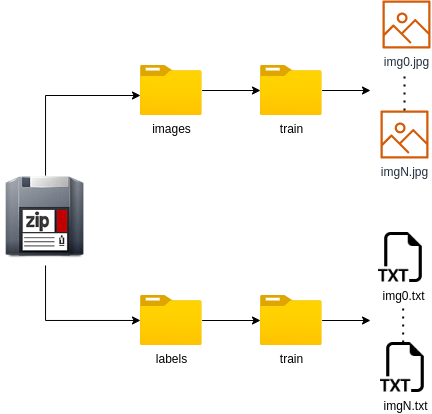
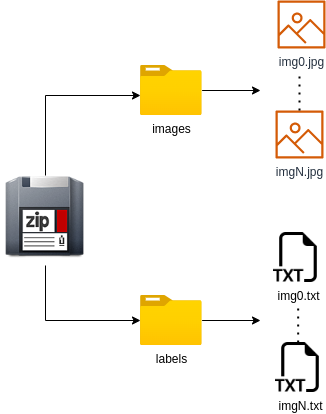
Add randomized training and validation split

diff --git a/templates/pending_models.html b/templates/pending_models.html
@@ -58,7 +58,8 @@
         </table>
         <br><br/>
         <p id="num_training_images">Current training set size: {{num_training_images}}/{{min_training_set_size}}</p>
-        <p id="training_info">This model will be trained and available on the main page only after gathering enough training data.</p>
+        <p id="num_validation_images">Current validation set size: {{num_validation_images}}/{{min_validation_set_size}}</p>
+        <p id="training_info">This model will be trained and available on the main page only after gathering enough data. NOTE: the training and validation split is randomized and done automatically.</p>
         {% endif %}
         <p class="mt-5 mb-3 text-muted">Cloud Systems thesis</p>
     </form>
@@ -73,7 +74,7 @@
       <canvas id="imgCanvas" width="400" height="400">
       </canvas>
       <br></br>
-      <button hidden id="send_labels" onclick="send_labels();">Send labels as training data</button>
+      <button hidden id="send_labels" onclick="send_labels();">Send labels as training/validation data</button>
       <br></br>
       <button hidden id="customize_labels" onclick="customize_labels();">Customize labels</button>
       <script type="text/javascript" src="/static/js/labeling.js"></script>

diff --git a/templates/index.html b/templates/index.html
@@ -54,6 +54,7 @@
         </table>
         <br><br/>
         <p id="num_training_images">Current training set size: {{num_training_images}}</p>
+        <p id="num_validation_images">Current validation set size: {{num_validation_images}}</p>
         <p class="mt-5 mb-3 text-muted">Cloud Systems thesis</p>
     </form>
     <script src="//code.jquery.com/jquery-3.3.1.slim.min.js" integrity="sha384-q8i/X+965DzO0rT7abK41JStQIAqVgRVzpbzo5smXKp4YfRvH+8abtTE1Pi6jizo" crossorigin="anonymous"></script>
@@ -68,7 +69,7 @@
       <canvas id="imgCanvas" width="400" height="400">
       </canvas>
       <br></br>
-      <button hidden id="send_labels" onclick="send_labels();">Send labels as training data</button>
+      <button hidden id="send_labels" onclick="send_labels();">Send labels as training/validation data</button>
       <br></br>
       <button hidden id="customize_labels" onclick="customize_labels();">Customize labels</button>
       <script type="text/javascript" src="/static/js/show_img.js"></script>

diff --git a/service.py b/service.py
@@ -3,6 +3,8 @@ import argparse
 import os
 from PIL import Image
 
+from random import random
+
 from flask import Flask, render_template, request, jsonify, redirect
 import json
 import pandas as pd
@@ -51,22 +53,38 @@ def get_pending_models(bucket_name, s3_folder, txt_file):
             os.utime(class_file_name, (remote_last_modified, remote_last_modified))
 
 def upload_requested_model(bucket_name, pending_model_path):
-    for root, dirs, files in os.walk(pending_model_path):
-        for file in files:
-            file_path = os.path.join(root, file)
-            print("Uploading file " + file_path + " to the S3 bucket")
-            s3_client.upload_file(file_path, bucket_name, file_path)
+    print("Uploading class list for " + pending_model_path + " to the S3 bucket")
+    s3_client.upload_file(pending_model_path + 'classes.txt', bucket_name, pending_model_path + 'classes.txt')
+    for labels_filename in os.listdir(pending_model_path + 'labels/'):
+        labels_filepath = os.path.join(pending_model_path + 'labels/', labels_filename)
+        image_filepath = labels_filepath.rsplit('.', 1)[0] + '.jpg'
+        image_filename = labels_filename.rsplit('.', 1)[0] + '.jpg'
+        # Randomize training and validation split
+        if random() <= 0.8:
+            extracted_set = '/train/'
+        else:
+            extracted_set = '/valid/'
+        print("Uploading image and labels for " + image_filename + " to the S3 bucket")
+        s3_client.upload_file(labels_filepath, bucket_name, pending_model_path + extracted_set + 'labels/' + labels_filename)
+        s3_client.upload_file(image_filepath, bucket_name, pending_model_path + extracted_set + 'images/' + image_filename)
 
 # Use paginator in case training set size > 1000 (S3 API limit)
-def count_training_set_size(bucket_name, model_path):
+def count_dataset_size(bucket_name, model_path):
     paginator = s3_client.get_paginator('list_objects_v2')
-    count = 0
+    training_count = 0
+    validation_count = 0
     #print(model_path)
     for result in paginator.paginate(Bucket=bucket_name, Prefix=model_path + '/labels/train/', Delimiter='/'):
         key_count = result.get('KeyCount')
         if key_count is not None:
-            count += key_count
-    return count
+            training_count += key_count
+
+    for result in paginator.paginate(Bucket=bucket_name, Prefix=model_path + '/labels/valid/', Delimiter='/'):
+        key_count = result.get('KeyCount')
+        if key_count is not None:
+            validation_count += key_count
+
+    return training_count, validation_count
 
 def update_db(remote_addr, img_name, json_pred):
     rds_db = mysql.connector.connect(
@@ -133,7 +151,7 @@ def predict():
     model = torch.hub.load('yolov5', 'custom', path="models/" + args.model + ".pt", source='local', autoshape=True)
     model.eval()
     model.cpu()
-    num_training_images = count_training_set_size(args.training_data_bucket, "models/" + curr_model_pt)
+    num_training_images, num_validation_images = count_dataset_size(args.training_data_bucket, "models/" + curr_model_pt)
 
     if request.method == "POST":
         curr_model_pt = request.form['model_selection'].rsplit('.', 1)[0]
@@ -151,7 +169,7 @@ def predict():
         model.eval()
         model.cpu()
 
-        num_training_images = count_training_set_size(args.training_data_bucket, "models/" + curr_model_pt)
+        num_training_images, num_validation_images = count_dataset_size(args.training_data_bucket, "models/" + curr_model_pt)
 
         img_bytes = file.read()
         img = Image.open(io.BytesIO(img_bytes))
@@ -183,9 +201,9 @@ def predict():
             if 'DB_HOSTNAME' in os.environ and 'DB_USERNAME' in os.environ and 'DB_PASSWORD' in os.environ:
                 update_db(request.remote_addr, image_name, json_pred)
         #return redirect(predicted_image_name)
-        return render_template("index.html", pred_image_loc=predicted_image_loc, orig_image_loc=original_image_loc, class_names=model.names, num_classes=len(model.names), models=models_list, num_models=len(models_list), curr_model_pt=curr_model_pt, num_training_images=num_training_images)
+        return render_template("index.html", pred_image_loc=predicted_image_loc, orig_image_loc=original_image_loc, class_names=model.names, num_classes=len(model.names), models=models_list, num_models=len(models_list), curr_model_pt=curr_model_pt, num_training_images=num_training_images, num_validation_images=num_validation_images)
 
-    return render_template("index.html", class_names=model.names, num_classes=len(model.names), models=models_list, num_models=len(models_list), curr_model_pt=curr_model_pt, num_training_images=num_training_images)
+    return render_template("index.html", class_names=model.names, num_classes=len(model.names), models=models_list, num_models=len(models_list), curr_model_pt=curr_model_pt, num_training_images=num_training_images, num_validation_images=num_validation_images)
 
 # Request model form
 @app.route("/request_model", methods=["GET", "POST"])
@@ -194,13 +212,9 @@ def request_model():
     if request.method == "POST":
         model_name = request.form['model_name']
         class_list = request.form['class_list']
-        pending_model_path = 'pending_models/' + model_name
-        if not os.path.exists(pending_model_path + '/labels/train'):
-            os.makedirs(pending_model_path + '/labels/train')
-        if not os.path.exists(pending_model_path + '/images/train'):
-            os.makedirs(pending_model_path + '/images/train')
+        pending_model_path = 'pending_models/' + model_name + '/'
         # Write class list
-        with open(pending_model_path + '/classes.txt', 'w') as class_list_file:
+        with open(pending_model_path + 'classes.txt', 'w') as class_list_file:
             class_list_file.write(class_list)
         if "file" in request.files and request.files["file"]:
             file = request.files["file"]
@@ -223,8 +237,9 @@ def pending_models():
     curr_pending_model = pending_models_list[0].rsplit('.', 1)[0]
     with open('pending_models/' + curr_pending_model + '/classes.txt', 'r') as class_list_file:
             class_list = list(filter(None, class_list_file.read().split('\n')))
-    num_training_images = count_training_set_size(args.training_data_bucket, "pending_models/" + curr_pending_model)
-    min_training_set_size = 100
+    num_training_images, num_validation_images = count_dataset_size(args.training_data_bucket, "pending_models/" + curr_pending_model)
+    min_training_set_size = 80
+    min_validation_set_size = 20
 
     if request.method == "POST":
         curr_pending_model = request.form['model_selection'].rsplit('.', 1)[0]
@@ -234,10 +249,10 @@ def pending_models():
         image_name = file.filename
         if not file:
             return
-        pending_model_path = 'pending_models/' + curr_pending_model
-        with open(pending_model_path + '/classes.txt', 'r') as class_list_file:
+        pending_model_path = 'pending_models/' + curr_pending_model + '/'
+        with open(pending_model_path + 'classes.txt', 'r') as class_list_file:
             class_list = list(filter(None, class_list_file.read().split('\n')))
-        num_training_images = count_training_set_size(args.training_data_bucket, "pending_models/" + curr_pending_model)
+        num_training_images, num_validation_images = count_dataset_size(args.training_data_bucket, "pending_models/" + curr_pending_model)
 
         img_bytes = file.read()
         img = Image.open(io.BytesIO(img_bytes))
@@ -249,9 +264,9 @@ def pending_models():
         original_image_loc = static_model_path + image_name
         img.save(original_image_loc)
 
-        return render_template("pending_models.html", orig_image_loc=original_image_loc, class_names=class_list, num_classes=len(class_list), pending_models=pending_models_list, num_pending_models=len(pending_models_list), curr_pending_model=curr_pending_model, num_training_images=num_training_images, min_training_set_size=min_training_set_size)
+        return render_template("pending_models.html", orig_image_loc=original_image_loc, class_names=class_list, num_classes=len(class_list), pending_models=pending_models_list, num_pending_models=len(pending_models_list), curr_pending_model=curr_pending_model, num_training_images=num_training_images, num_validation_images=num_validation_images, min_training_set_size=min_training_set_size, min_validation_set_size=min_validation_set_size)
 
-    return render_template("pending_models.html", class_names=class_list, num_classes=len(class_list), pending_models=pending_models_list, num_pending_models=len(pending_models_list), curr_pending_model=curr_pending_model, num_training_images=num_training_images, min_training_set_size=min_training_set_size)
+    return render_template("pending_models.html", class_names=class_list, num_classes=len(class_list), pending_models=pending_models_list, num_pending_models=len(pending_models_list), curr_pending_model=curr_pending_model, num_training_images=num_training_images, num_validation_images=num_validation_images, min_training_set_size=min_training_set_size, min_validation_set_size=min_validation_set_size)
 
 if __name__ == "__main__":
     parser = argparse.ArgumentParser(description="Flask web app for YOLOv5")
